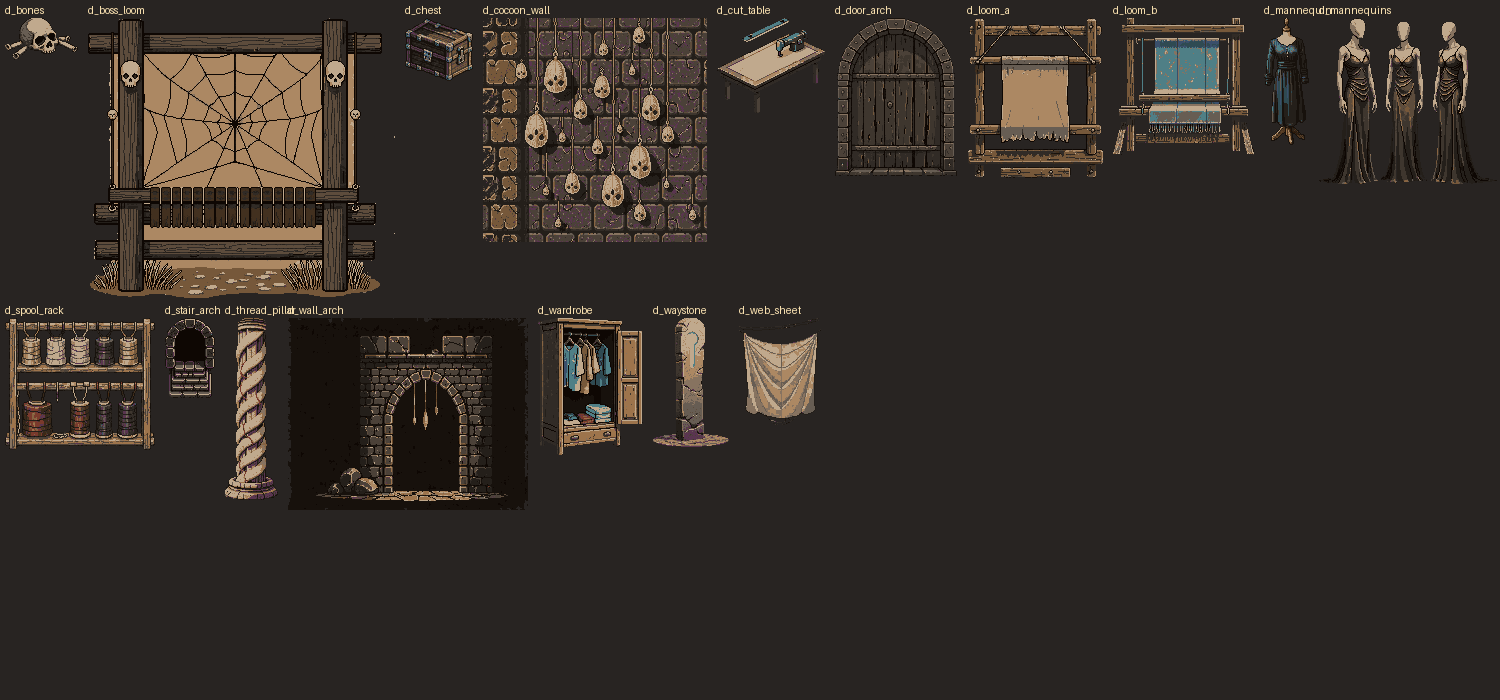
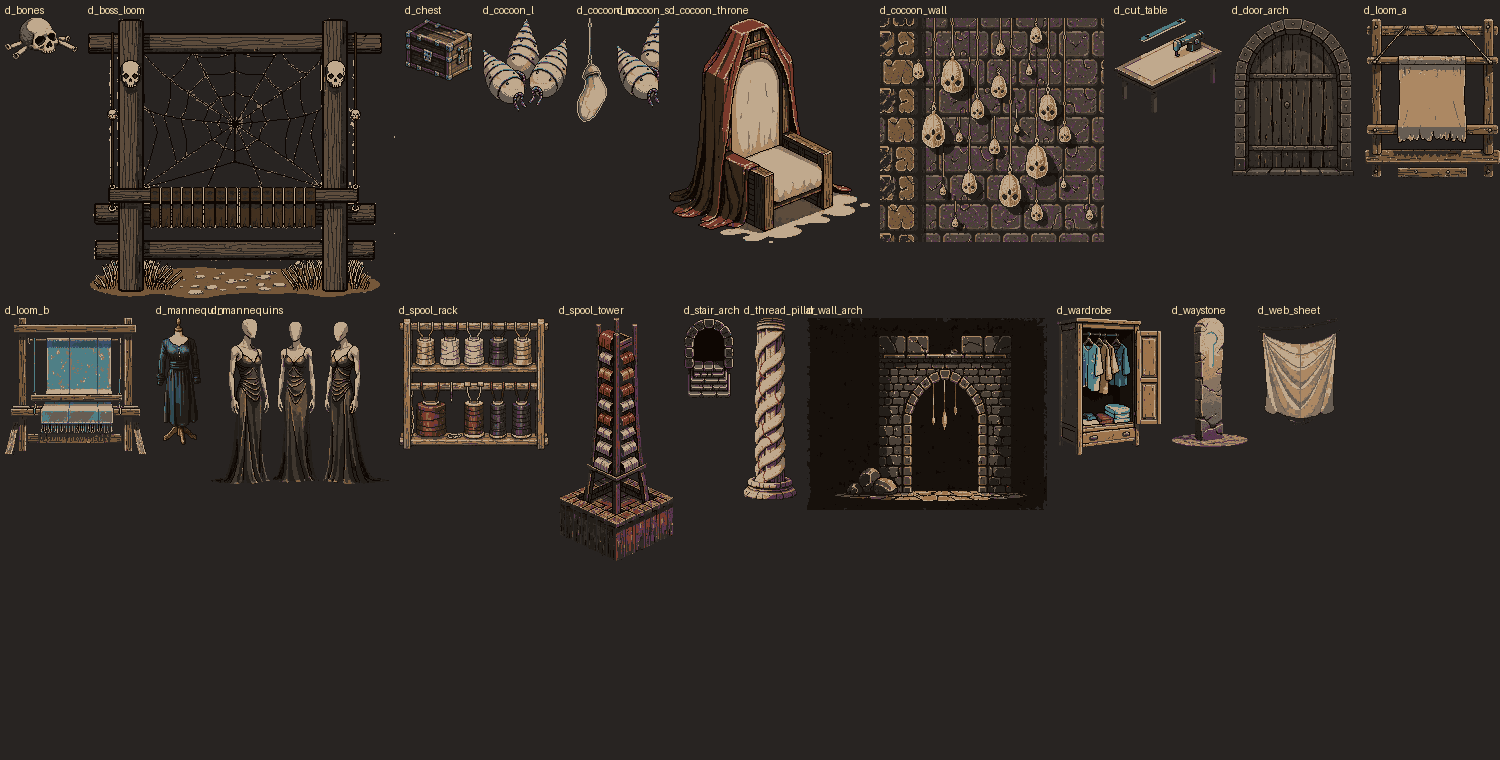
제1던전 부품 추가: 고치 3종·실패 탑·실 고치 왕좌
Claude-Session: https://claude.ai/code/session_01Ed92eTBNbhN1yf3zW3burX

Changed region(s): [[0.0, 0.0, 1.0, 0.72], [0.7053, 0.39, 0.8893, 0.6]]

diff --git a/handoff/claude/felt_grok_build/pack.py b/handoff/claude/felt_grok_build/pack.py
@@ -61,7 +61,8 @@ def key(a, thr=14):   # 테두리와 이어진 단색 바탕 지우기
     fl, _ = ndimage.label(flat); e = set(np.unique(np.concatenate([fl[0], fl[-1], fl[:, 0], fl[:, -1]]))) - {0}
     a[:, :, 3] = np.where(np.isin(fl, list(e)), 0, a[:, :, 3]); return a
 SKIP = {'fountain_king', 'fountain_king2', 'cocoons', 'bush_a', 'bridge_wood', 'dry_reeds', 'pale_mushrooms',
-        'd_loom_a', 'd_stairs_down', 'd_mannequins', 'd_fabric_pile', 'd_boss_loom', 'd_boss_loom3'}   # 던전: 작게 나온 1차·배경 박힌 판 버림   # 버린 판 (석상 분수는 아래 fountain 으로, 고치는 cocoons2)
+        'd_loom_a', 'd_stairs_down', 'd_mannequins', 'd_fabric_pile', 'd_boss_loom', 'd_boss_loom3',
+        'd_cocoon_s', 'd_cocoon_l', 'd_wall_strip', 'd_thread_curtain', 'd_fabric_pile3'}   # 너무 작거나 빈 그림 (벽 띠·실 커튼은 3번방 코드)   # 던전: 작게 나온 1차·배경 박힌 판 버림   # 버린 판 (석상 분수는 아래 fountain 으로, 고치는 cocoons2)
 for pid in gen.TEXT:
     if pid in SKIP or not os.path.exists(f'out/{pid}_t.png'): continue
     a = tight(key(np.array(Image.open(f'out/{pid}_t.png').convert('RGBA')))); Image.fromarray(a).save(f'final/{pid}.png')
@@ -102,7 +103,12 @@ if 'd_boss_loom' in parts:
     src = np.array(Image.open('out/d_boss_loom2_t.png').convert('RGBA')); c = src[0, 0, :3].astype(int)
     src[..., 3] = np.where(np.abs(src[..., :3].astype(int) - c).sum(2) < 16, 0, src[..., 3]); a = tight(src)
     Image.fromarray(a).save('final/d_boss_loom.png'); parts['d_boss_loom'].update(w=a.shape[1], h=a.shape[0], ax=a.shape[1] // 2, ay=a.shape[0] - 1)
-DROLE = {'d_loom_a': '베틀(부서진)', 'd_loom_b': '태피스트리 베틀', 'd_spool_rack': '큰 실패 선반', 'd_mannequins': '마네킹 무리', 'd_mannequin': '마네킹 1',
+# 고치 크기 3종: 작은 = 고치 무더기에서 1개 잘라 냄(무료), 중 = d_cocoon_m(매달린), 큰 = cocoons 그대로
+cc = np.array(Image.open('final/cocoons2.png').convert('RGBA'))
+a = cc[:, : cc.shape[1] // 2].copy(); a = tight(a); Image.fromarray(a).save('final/d_cocoon_s.png')
+parts['d_cocoon_s'] = {'img': 'd_cocoon_s.png', 'w': a.shape[1], 'h': a.shape[0], 'ax': a.shape[1] // 2, 'ay': a.shape[0] - 1, 'kind': 'prop'}
+Image.open('final/cocoons2.png').save('final/d_cocoon_l.png'); parts['d_cocoon_l'] = dict(parts['cocoons2'], img='d_cocoon_l.png')
+DROLE = {'d_cocoon_s': '고치 작은', 'd_cocoon_m': '고치 매달린(중)', 'd_cocoon_l': '고치 무더기(큰)', 'd_spool_tower': '실패 탑', 'd_cocoon_throne': '보스방: 실 고치 왕좌','d_loom_a': '베틀(부서진)', 'd_loom_b': '태피스트리 베틀', 'd_spool_rack': '큰 실패 선반', 'd_mannequins': '마네킹 무리', 'd_mannequin': '마네킹 1',
          'd_cut_table': '재단대', 'd_fabric_pile': '천 더미', 'd_cocoon_wall': '고치 벽(벽면 판)', 'd_web_sheet': '거미줄 막', 'd_thread_pillar': '실 감긴 기둥',
          'd_bones': '뼈 더미', 'd_wardrobe': '옷장', 'd_door_arch': '아치 나무문', 'd_stair_arch': '계단 입구 아치', 'd_wall_arch': '아치 벽 조각',
          'd_chest': '보물상자', 'd_waystone': '비석(순간이동)', 'd_boss_loom': '보스방: 해골 영혼 베틀(큰 장식)'}

diff --git a/handoff/claude/felt_grok_build/gen.py b/handoff/claude/felt_grok_build/gen.py
@@ -134,6 +134,14 @@ TEXT = {  # id: (크기, 설명) — init 없이 글자+색만, 투명 배경
  'd_fabric_pile2': ((160, 112), "large heap of rotting fabric bolts, rolled cloth and torn curtains, filling the frame, seen from slightly above, 16-bit JRPG", 17),
  'd_boss_loom2': ((320, 304), "isolated enormous black wooden loom frame with a giant spider web woven between its beams, ghostly pale faces caught in the threads, bone decorations, transparent background, seen from slightly above, 16-bit JRPG", 17),
  'd_boss_loom3': ((320, 304), "isolated giant ominous throne-like loom of dark wood and bones with a huge web stretched across it and spools of red thread, transparent background, seen from slightly above, 16-bit JRPG", 29),
+ 'd_cocoon_s': ((64, 80), "single small white silk cocoon wrapped in spider web lying on the floor, seen from slightly above, 16-bit JRPG"),
+ 'd_cocoon_m': ((96, 160), "human-sized white silk cocoon hanging from a thick thread strand, slightly swaying, seen from slightly above, 16-bit JRPG"),
+ 'd_cocoon_l': ((160, 176), "cluster of three large human-sized silk cocoons bound together with thick webs on the floor, seen from slightly above, 16-bit JRPG"),
+ 'd_spool_tower': ((128, 256), "tall tower of stacked giant wooden thread spools with silver and red thread unraveling down, seen from slightly above, 16-bit JRPG"),
+ 'd_cocoon_throne': ((256, 256), "isolated eerie throne made of fused white silk cocoons and threads with a high web back, spider queen's seat, transparent background, seen from slightly above, 16-bit JRPG"),
+ 'd_wall_strip': ((192, 96), "seamless horizontal strip of dark old stone dungeon wall front face, mossy bricks with a few hanging threads, edge to edge, seen from the front slightly above, 16-bit JRPG"),
+ 'd_thread_curtain': ((96, 128), "curtain of hanging pale spider silk threads in a doorway, seen from slightly above, 16-bit JRPG"),
+ 'd_fabric_pile3': ((160, 112), "heap of rotting cloth rolls and torn curtains, seen from slightly above, 16-bit JRPG"),
  'ember_rubble':   ((160, 96),  "pile of charred burned stone rubble and black beams with a few glowing orange embers, thin smoke, seen from slightly above, 16-bit JRPG", None, 'palette_32.png'),
 }
 
